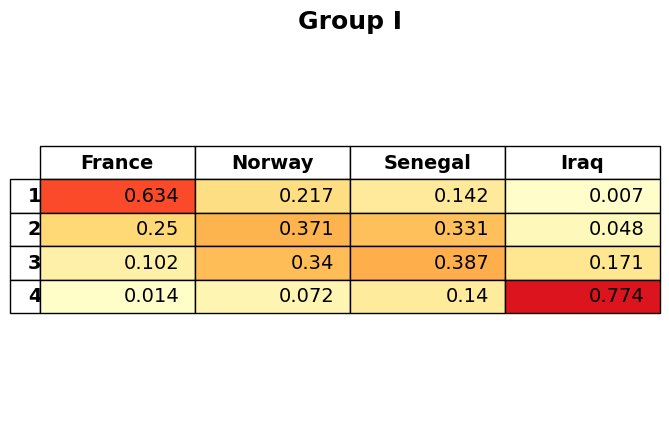
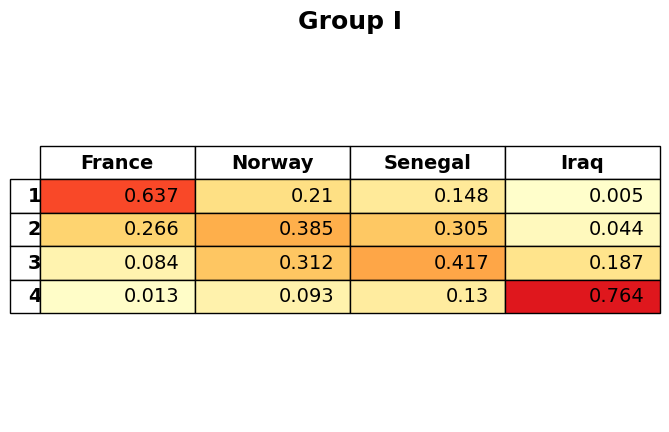
Added average third place calculations

diff --git a/WC2026.py b/WC2026.py
@@ -64,7 +64,7 @@ class WC_2026:
 
             average_group_table['Points'] =  average_group_table['Points'] / iterations
 
-        #calculate the average third place table and print
+        #Remove all but the most common third place teams from each group
         for group in self.groups:
             group_third_place = self.total_third_place[self.total_third_place['Group'] == group]
             max_appearances = np.max(group_third_place['Num Appearances'])
@@ -73,7 +73,12 @@ class WC_2026:
                 if group_third_place.loc[team, 'Num Appearances'] < max_appearances:
                     self.total_third_place = self.total_third_place.drop(index=team)
 
-        print(self.total_third_place)
+        #calculate average third place table
+        self.average_tp_table = deepcopy(self.total_third_place)
+        self.average_tp_table['Points'] = self.average_tp_table['Points'] / iterations
+        self.average_tp_table['Num Appearances'] = self.average_tp_table['Num Appearances'] / iterations
+
+        print(self.average_tp_table)
                 
 
 
